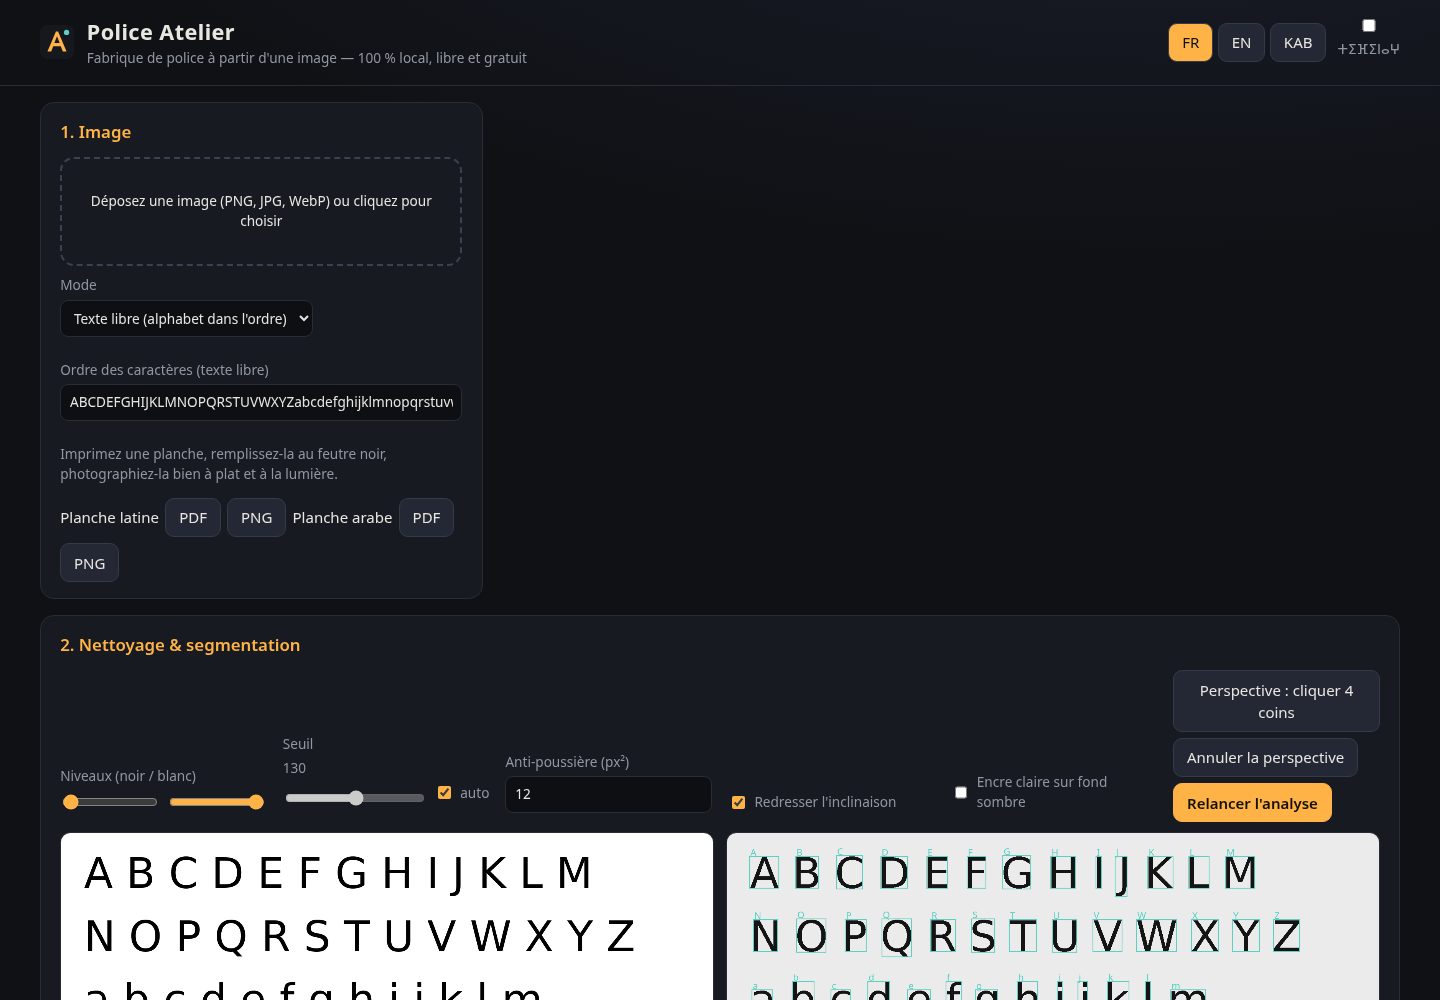
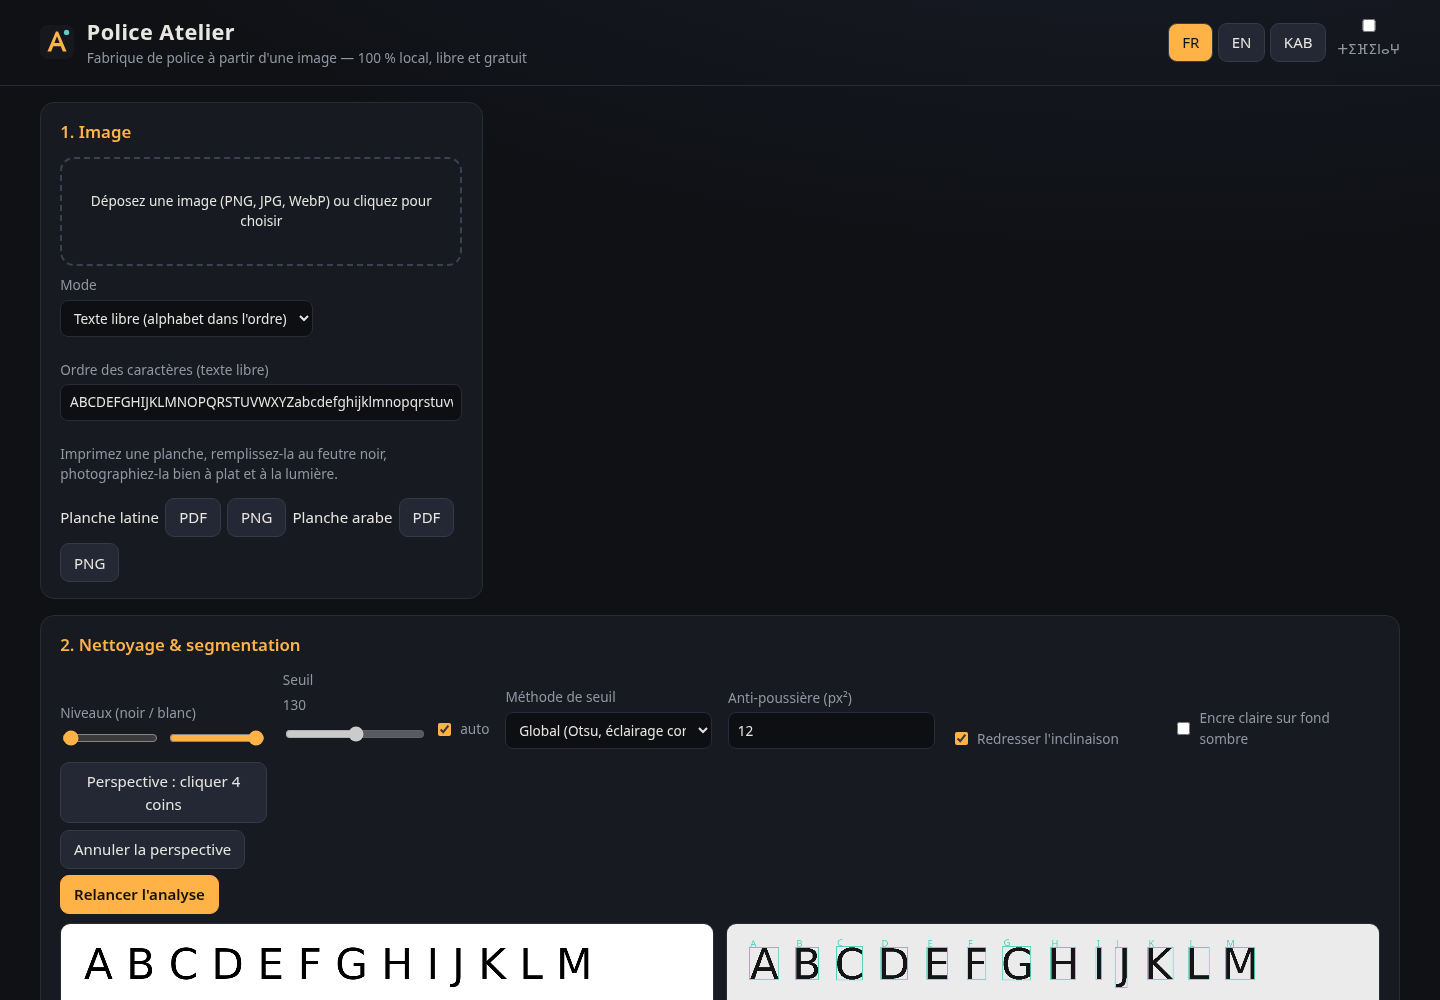
Tests de régression réalistes (photo 12 Mpx, manuscrit, serif gras, négatif, arabe) et multi-navigateurs (Chrome, Firefox, WebKit)

diff --git a/tests/check_real.py b/tests/check_real.py
@@ -1,0 +1,66 @@
+"""Contrôle des polices issues des entrées réalistes."""
+import json, string, subprocess, sys
+sys.path.insert(0, 'tests')
+from iou import raster
+from fontTools.ttLib import TTFont
+G = '/usr/share/fonts/truetype/sand-box/google/'
+REF = {'Handlee': G + 'Handlee/Handlee-Regular.ttf', 'Caveat': G + 'Caveat/Caveat-VariableFont_wght.ttf',
+       'DejaVuSerifBold': '/usr/share/fonts/truetype/dejavu/DejaVuSerif-Bold.ttf', 'NotoNaskh': G + 'Noto Naskh Arabic/NotoNaskhArabic-VariableFont_wght.ttf'}
+def iou(a, b): return float((a & b).sum() / max(1, (a | b).sum()))
+res = json.load(open('tests/out/realistic.json')); summary = []
+for r in res:
+    path = f"tests/out/real-{r['name']}.otf"
+    try:
+        f = TTFont(path); gs0 = f.getGlyphSet()
+        from fontTools.pens.recordingPen import RecordingPen
+        for gn in f.getGlyphOrder(): gs0[gn].draw(RecordingPen())   # décode tous les charstrings CFF
+    except Exception as e: summary.append({'name': r['name'], 'error': 'CFF/OTF corrompu : %r' % e}); continue
+    cmap = f.getBestCmap(); hm = f['hmtx'].metrics; gs = f.getGlyphSet()
+    from fontTools.pens.boundsPen import BoundsPen
+    giant = []
+    for ch in string.ascii_letters + string.digits:
+        gn = cmap.get(ord(ch)); bp = BoundsPen(gs); gs[gn].draw(bp)
+        if bp.bounds and (bp.bounds[3] - bp.bounds[1] > 1300 or bp.bounds[2] - bp.bounds[0] > 1300): giant.append(ch)
+    s = {'name': r['name'], 'status': r.get('status'), 'counts': r.get('counts'), 'giant': giant}
+    if r['expect'] != 'arabic':
+        chars = string.ascii_letters + string.digits; scores = {}
+        traced = set(k for k in (r.get('items') or []) if k)
+        for ch in chars:
+            if ch not in traced: continue
+            a, b = raster(REF[r['ref']], ch), raster(path, ch)
+            scores[ch] = round(iou(a, b), 2) if a is not None and b is not None else 0
+        v = list(scores.values()) or [0]
+        s.update(traced=len(scores), iou_mean=round(sum(v) / len(v), 3), iou_min=min(v), bad=sorted([k for k, x in scores.items() if x < 0.6]), worst=sorted(scores.items(), key=lambda x: x[1])[:6])
+        # largeur des approches : rapport encre / avance pour quelques lettres
+        txt = 'abcdef ABC Hamburgefonstiv 0123'
+        # lignes de base et hauteurs : lettres posées à y≈0, capitales plates cohérentes
+        def bnds(ch):
+            bp = BoundsPen(gs); gs[cmap[ord(ch)]].draw(bp); return bp.bounds
+        off = {ch: round(bnds(ch)[1]) for ch in 'abcdefhiklmnrtuvwxzABDEFHKLMNRTZ' if ch in traced}
+        s['baseline_off_max'] = max([abs(v) for v in off.values()] or [0]); s['baseline_bad'] = [k for k, v in off.items() if abs(v) > 45]
+        caps = [bnds(ch)[3] for ch in 'BDEFHIKLMNPRTUVWXYZ' if ch in traced]
+        if caps:
+            m = sorted(caps)[len(caps) // 2]; s['cap_spread'] = round((max(caps) - min(caps)) / m, 3)
+        s['preview'] = r.get('preview')
+    else:
+        txt = 'سلام محمد ٠١٢٣'
+    subprocess.run(['hb-view', path, txt, '--font-size=90', '-o', f"tests/out/hb-{r['name']}.png", '--margin=20'], check=False)
+    summary.append(s)
+print(json.dumps(summary, ensure_ascii=False, indent=1)); json.dump(summary, open('tests/out/check_real.json', 'w'), ensure_ascii=False, indent=1)
+# --- assertions de régression
+fail = []
+for s in summary:
+    if 'error' in s: fail.append(f"{s['name']}: OTF illisible {s['error']}"); continue
+    if s['giant']: fail.append(f"{s['name']}: glyphes géants {s['giant']}")
+    if 'iou_mean' in s:
+        if s['traced'] < 60: fail.append(f"{s['name']}: seulement {s['traced']} glyphes tracés")
+        if s['iou_min'] < 0.55 or s['iou_mean'] < 0.78: fail.append(f"{s['name']}: IoU {s['iou_mean']} / {s['iou_min']} (mauvaise attribution ?)")
+        if s['baseline_bad']: fail.append(f"{s['name']}: lignes de base décalées {s['baseline_bad']}")
+        p = s.get('preview') or {}
+        if p.get('clusters') != 6 or p.get('inkHeight', 999) > 130: fail.append(f"{s['name']}: aperçu « abcdef » anormal {p}")
+exp = {r['name']: r['expect'] for r in res}
+for r in res:
+    if r.get('fail'): fail.append(f"{r['name']}: {r['fail']}")
+    if r['errors']: fail.append(f"{r['name']}: erreurs console {r['errors']}")
+    if r['expect'] in ('latin', 'arabic') and f"({r['expect']})" not in (r.get('status') or ''): fail.append(f"{r['name']}: planche non détectée — {r.get('status')}")
+print('\n'.join(fail) if fail else 'RÉGRESSIONS RÉALISTES : OK'); sys.exit(1 if fail else 0)

diff --git a/tests/degrade.py b/tests/degrade.py
@@ -1,0 +1,67 @@
+"""Fabrique des entrées « réalistes » : photo de téléphone simulée (perspective, flou,
+éclairage inégal, bruit, JPEG), alphabet à espacement irrégulier, police avec empattements.
+Les polices OFL du système ne servent que d'entrée de test."""
+import random, sys, numpy as np
+from PIL import Image, ImageDraw, ImageFont, ImageFilter
+random.seed(4); np.random.seed(4)
+FONTS = '/usr/share/fonts/truetype/sand-box/google/'
+
+def phone_photo(sheet, out, W=4032, H=3024, q=62, angle_jitter=1.0):
+    """Pose la feuille sur une table, perspective, flou, ombre, bruit, JPEG."""
+    s = sheet.convert('RGB')
+    canvas = Image.new('RGB', (W, H), (92, 74, 60))  # table
+    # feuille placée en portrait dans un cadre paysage ? On garde le portrait : 3024x4032
+    if sheet.height > sheet.width: W, H = H, W; canvas = Image.new('RGB', (W, H), (92, 74, 60))
+    sw, sh = int(W * 0.84), int(W * 0.84 * sheet.height / sheet.width)
+    if sh > H * 0.92: sh = int(H * 0.92); sw = int(sh * sheet.width / sheet.height)
+    s = s.resize((sw, sh), Image.LANCZOS)
+    ox, oy = (W - sw) // 2, (H - sh) // 2
+    # quadrilatère de destination (perspective)
+    j = lambda: random.uniform(-0.04, 0.04) * sw
+    dst = [(ox + j(), oy + j()), (ox + sw + j(), oy + j() * 0.5), (ox + sw - abs(j()), oy + sh + j()), (ox + abs(j()), oy + sh + j())]
+    coeffs = find_coeffs(dst, [(0, 0), (sw, 0), (sw, sh), (0, sh)])
+    warped = s.transform((W, H), Image.PERSPECTIVE, coeffs, Image.BICUBIC, fillcolor=(0, 0, 0))
+    mask = Image.new('L', (sw, sh), 255).transform((W, H), Image.PERSPECTIVE, coeffs, Image.BILINEAR, fillcolor=0)
+    canvas.paste(warped, (0, 0), mask)
+    a = np.asarray(canvas.filter(ImageFilter.GaussianBlur(2.2))).astype(np.float32)
+    yy, xx = np.mgrid[0:H, 0:W]
+    light = 0.62 + 0.38 * (xx / W) * 0.6 + 0.3 * (1 - yy / H)  # dégradé + ombre
+    light *= 1 - 0.25 * np.exp(-(((xx - W * 0.3) / (W * 0.25)) ** 2 + ((yy - H * 0.7) / (H * 0.2)) ** 2))  # ombre de main
+    a = a * light[..., None] * np.array([1.0, 0.97, 0.9])  # lumière chaude
+    a += np.random.normal(0, 9, a.shape)
+    Image.fromarray(np.clip(a, 0, 255).astype('uint8')).save(out, quality=q)
+
+def find_coeffs(pa, pb):
+    A = []
+    for p1, p2 in zip(pa, pb):
+        A.append([p1[0], p1[1], 1, 0, 0, 0, -p2[0] * p1[0], -p2[0] * p1[1]])
+        A.append([0, 0, 0, p1[0], p1[1], 1, -p2[1] * p1[0], -p2[1] * p1[1]])
+    return np.linalg.solve(np.array(A, float), np.array(pb, float).reshape(8)).tolist()
+
+def alphabet_photo(font_path, out, size=120, uneven=True, photo=True, lines=None, W=2600):
+    f = ImageFont.truetype(font_path, size)
+    lines = lines or ['ABCDEFGHIJKLM', 'NOPQRSTUVWXYZ', 'abcdefghijklm', 'nopqrstuvwxyz', '0123456789']
+    img = Image.new('L', (W, int(size * 1.6 * len(lines) + 200)), 255); d = ImageDraw.Draw(img)
+    for i, l in enumerate(lines):
+        x = 80
+        for ch in l:
+            dy = random.randint(-8, 8) if uneven else 0
+            d.text((x, 80 + i * size * 1.6 + dy), ch, font=f, fill=0)
+            x += d.textlength(ch, font=f) + (random.randint(int(size * 0.12), int(size * 0.55)) if uneven else size * 0.3)
+    if photo:
+        a = np.asarray(img.filter(ImageFilter.GaussianBlur(1.3))).astype(np.float32)
+        H, Wd = a.shape; yy, xx = np.mgrid[0:H, 0:Wd]
+        a = a * (0.55 + 0.45 * xx / Wd) + np.random.normal(0, 10, a.shape)
+        Image.fromarray(np.clip(a, 0, 255).astype('uint8')).convert('RGB').save(out, quality=65)
+    else: img.save(out)
+
+if __name__ == '__main__':
+    d = 'tests/fixtures/real/'
+    import os; os.makedirs(d, exist_ok=True)
+    phone_photo(Image.open('tests/out/sheet-latin-hand.png'), d + 'photo-planche-latine.jpg')
+    phone_photo(Image.open('tests/out/sheet-arabic-naskh.png'), d + 'photo-planche-arabe.jpg', W=3000, H=2250)
+    alphabet_photo(FONTS + 'Caveat/Caveat-VariableFont_wght.ttf', d + 'photo-alphabet-caveat.jpg', size=150)
+    alphabet_photo('/usr/share/fonts/truetype/dejavu/DejaVuSerif-Bold.ttf', d + 'serif-gras.png', size=140, uneven=False, photo=False, W=2600)
+    # encre claire sur fond sombre (craie / négatif)
+    im = Image.open(d + 'serif-gras.png').convert('L'); Image.eval(im, lambda v: 255 - v).save(d + 'negatif-serif.png')
+    print('ok')
